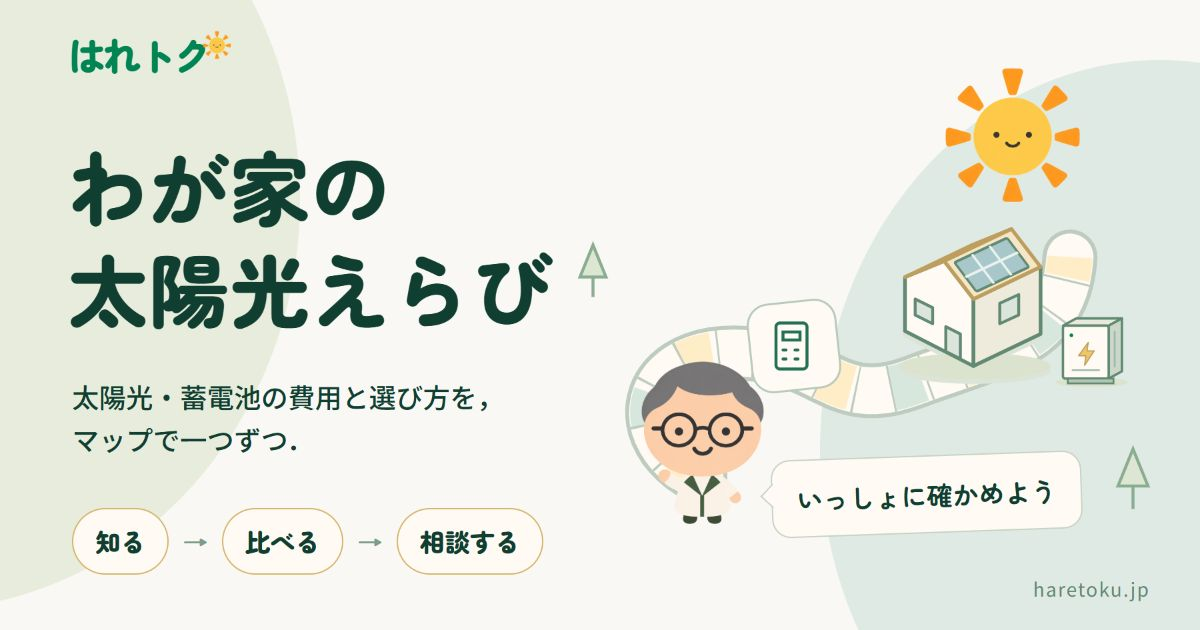
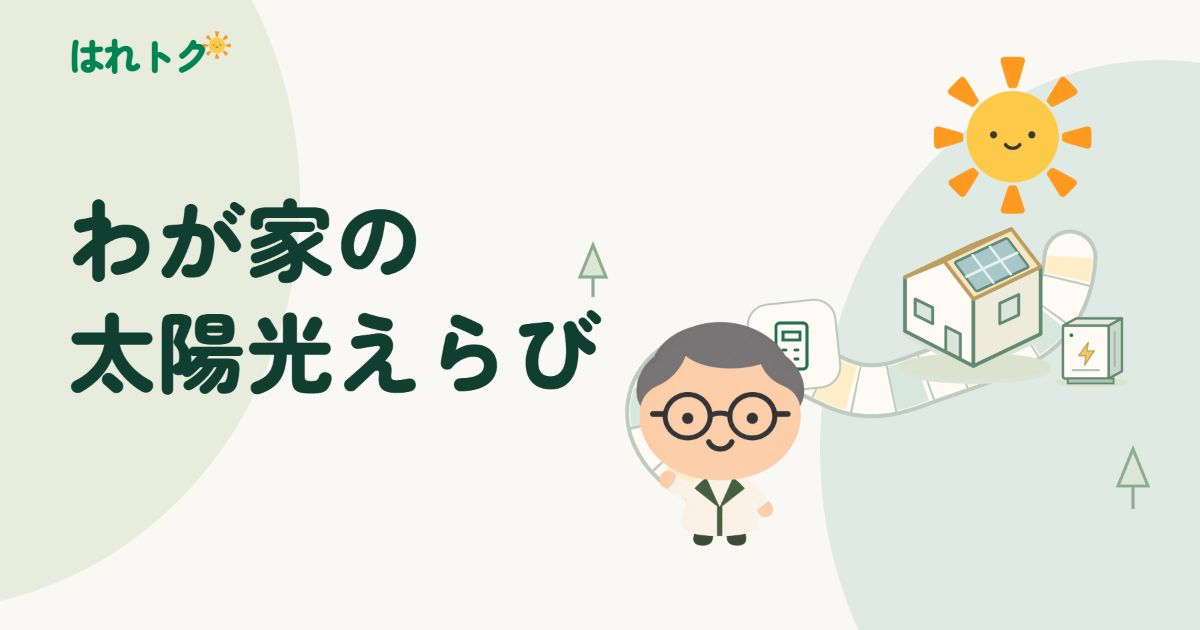
fix: simplify social card for small previews

diff --git a/site/map/local-preview/share-card.html b/site/map/local-preview/share-card.html
@@ -9,15 +9,11 @@
 .card{position:relative;width:1200px;height:630px;overflow:hidden;background:#fafbf5}
 .wash{position:absolute;border-radius:50%;background:#e7efdc;width:760px;height:820px;left:-460px;top:-210px}.wash.right{background:#e0ede4;width:680px;height:780px;left:820px;top:60px}
 .brand{position:absolute;left:68px;top:35px;color:#008653;font-size:38px;line-height:1;font-weight:900;letter-spacing:-.08em}.brand img{width:46px;height:46px;object-fit:contain;position:absolute;left:126px;top:-13px}
-h1{position:absolute;left:68px;top:134px;font-family:"Zen Maru Gothic","Noto Sans JP",sans-serif;font-size:80px;line-height:1.28;letter-spacing:.01em;font-weight:900;margin:0}
-.subtitle{position:absolute;left:72px;top:375px;font-family:"Noto Sans JP",sans-serif;font-size:27px;line-height:1.6;font-weight:500;margin:0}
-.steps{position:absolute;left:72px;top:508px;display:flex;gap:14px;align-items:center;font-size:25px;font-weight:700}.steps b{display:block;background:#fffdf3;border:1.5px solid #d6b76b;border-radius:50px;padding:10px 22px}.steps i{font-style:normal;color:#7c9f89}
+h1{position:absolute;left:68px;top:180px;font-family:"Zen Maru Gothic","Noto Sans JP",sans-serif;font-size:88px;line-height:1.28;letter-spacing:.01em;font-weight:900;margin:0}
 .art{position:absolute;inset:0;width:1200px;height:630px}.road{fill:none;stroke-linecap:round;stroke-linejoin:round}.outer{stroke:#bdcfbf;stroke-width:55}.inner{stroke:#fffdf3;stroke-width:47}.yellow{stroke:#fff0c8;stroke-width:45;stroke-dasharray:30 115}.green{stroke:#d8eadd;stroke-width:45;stroke-dasharray:30 115;stroke-dashoffset:-72}.dividers{stroke:#bdcfbf;stroke-width:47;stroke-dasharray:2 34}
-.professor{position:absolute;width:225px;height:225px;object-fit:contain;left:590px;top:329px}.harena{position:absolute;width:225px;height:225px;object-fit:contain;left:900px;top:22px}
-.bubble{position:absolute;left:771px;top:455px;background:#fffdf3;border:1.5px solid #c6d6c5;border-radius:19px;padding:15px 24px;font-size:26px;font-weight:700;transform:rotate(-2deg)}.bubble:before{content:"";position:absolute;left:-9px;top:25px;width:16px;height:16px;background:#fffdf3;border-left:1.5px solid #c6d6c5;border-bottom:1.5px solid #c6d6c5;transform:rotate(45deg)}
+.professor{position:absolute;width:310px;height:310px;object-fit:contain;left:565px;top:277px}.harena{position:absolute;width:265px;height:265px;object-fit:contain;left:880px;top:2px}
 .node{fill:#fffdf3;stroke:#b7cdbb;stroke-width:2}.house{position:absolute;left:886px;top:210px;width:175px;height:175px;filter:drop-shadow(0 5px 0 #dce7d8)}.battery{position:absolute;left:1053px;top:310px;width:77px;height:77px}
 .yellow,.green,.dividers{stroke-linecap:butt}
-.sun-mark{position:absolute;left:748px;top:240px;width:66px;height:66px;object-fit:contain}.domain{position:absolute;right:50px;bottom:25px;color:#638b72;font-family:"Noto Sans JP",sans-serif;font-size:19px;letter-spacing:.07em}
 </style>
 <main class="card">
   <div class="wash"></div><div class="wash right"></div>
@@ -31,13 +27,9 @@ h1{position:absolute;left:68px;top:134px;font-family:"Zen Maru Gothic","Noto San
   </svg>
   <div class="brand">はれトク<img src="../assets/navigator.png" alt=""></div>
   <h1>わが家の<br>太陽光えらび</h1>
-  <p class="subtitle">太陽光・蓄電池の費用と選び方を，<br>マップで一つずつ．</p>
-  <div class="steps"><b>知る</b><i>→</i><b>比べる</b><i>→</i><b>相談する</b></div>
   <img class="professor" src="../assets/professor-chibi.png" alt="はれトク博士">
   <img class="harena" src="../assets/navigator.png" alt="ハレナ">
   <svg class="house" aria-label="太陽光パネルのある家"><use href="../assets/title-art.svg#solar-house"/></svg>
   <svg class="battery" aria-label="蓄電池"><use href="../assets/title-art.svg#storage-battery"/></svg>
-  <div class="bubble">いっしょに確かめよう</div>
-  <div class="domain">haretoku.jp</div>
 </main>
 </html>

diff --git a/qa/README.md b/qa/README.md
@@ -6,9 +6,9 @@
 
 > **結論：LINE共有の旧写真をMAPと同じ意匠へ置き換える候補を作成し，標準ビルド・独立検収を完了した．本番はv0.3.1のままで，候補は未公開である．**
 
-画像は`site/shared/assets/og-step-map-20261017.png`（PNG・1200×630・460805bytes）．原稿は公開対象外の`site/map/local-preview/share-card.html`．既存のハレナ・博士・家・蓄電池・すごろくの道・共通フォントを使用し，ユーザーが添付したLINE画面や私的な会話内容は資産へ含めていない．31HTMLはog:imageのURL・形式・寸法・代替文だけを変更し，調査記事は専用画像を維持する．旧JPEGのURLは原バイトを保持し，og-image.pngは新PNGを配信する候補とした．
+画像は`site/shared/assets/og-step-map-20261017.png`（PNG・1200×630・369508bytes）．原稿は公開対象外の`site/map/local-preview/share-card.html`．既存のハレナ・博士・家・蓄電池・すごろくの道・共通フォントを使用し，ユーザーが添付したLINE画面や私的な会話内容は資産へ含めていない．31HTMLはog:imageのURL・形式・寸法・代替文だけを変更し，調査記事は専用画像を維持する．旧JPEGのURLは原バイトを保持し，og-image.pngは新PNGを配信する候補とした．
 
[2 lines of base64/hex data omitted]
 
 ## v0.3.1公開と本番検収（2026年10月17日）
 
